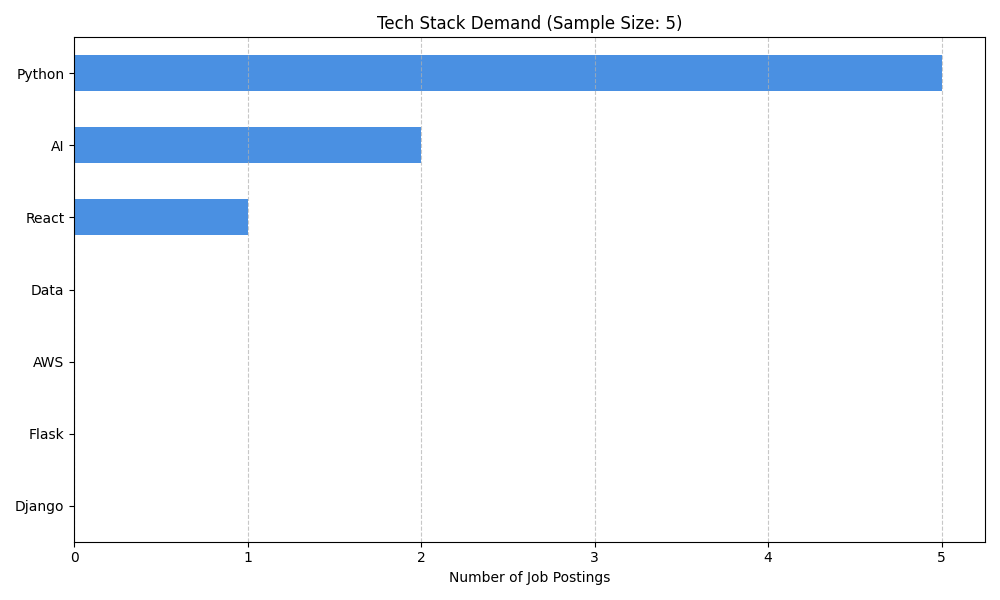
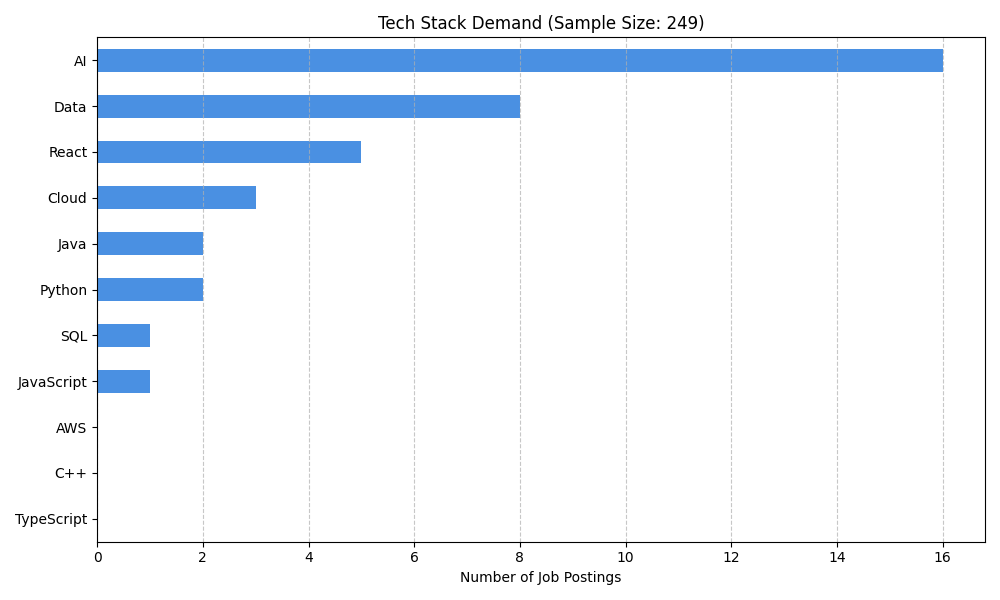
docs: finalized README with verified AI market insights and fixed regex bug

diff --git a/analyze.py b/analyze.py
@@ -15,12 +15,15 @@ def generate_visuals():
     print(f"Analyzing {len(df)} total records...")
 
     # Define the tech stack we want to measure
-    keywords = ['Python', 'Django', 'Flask', 'AWS', 'React', 'Data', 'AI']
+    keywords = [
+        'Python', 'JavaScript', 'TypeScript', 'Java', 'C++', 
+        'SQL', 'React', 'AWS', 'Cloud', 'Data', 'AI'
+    ]
     
     # Count occurrences (Case Insensitive)
     counts = {}
     for tech in keywords:
-        counts[tech] = df['title'].str.contains(tech, case=False).sum()
+        counts[tech] = df['title'].str.contains(tech, case=False, regex=False).sum()
 
     # Create DataFrame for plotting
     stats = pd.Series(counts).sort_values()

diff --git a/ml_analysis.py b/ml_analysis.py
@@ -34,8 +34,8 @@ def run_ml_pipeline():
     X = vectorizer.fit_transform(df['title'])
 
     # 3. Clustering (The Sorter)
-    # We ask the model to find 3 distinct groups of jobs.
-    true_k = 3
+    # We ask the model to find 5 distinct groups of jobs.
+    true_k = 5
     model = KMeans(n_clusters=true_k, init='k-means++', n_init=10, random_state=42)
     model.fit(X)
 

diff --git a/job_scraper.py b/job_scraper.py
@@ -48,7 +48,7 @@ def scrape_jobs():
     driver = webdriver.Chrome(service=Service(ChromeDriverManager().install()), options=options)
     
     try:
-        url = "https://weworkremotely.com/remote-jobs/search?term=python"
+        url = "https://weworkremotely.com/remote-jobs/search?term="
         print(f"Navigating to: {url}")
         driver.get(url)
         

diff --git a/README.md b/README.md
@@ -6,10 +6,8 @@ A full-stack data engineering tool that automates the extraction and analysis of
 This project uses a "Modern Data Stack" approach:
 1.  **Dynamic Extraction:** Uses **Selenium Webdriver** to launch a real browser instance, handling infinite scroll and dynamic DOM rendering that standard libraries (like `Requests`) cannot touch.
 2.  **Defensive Parsing:** Implements a robust `try-except` strategy to handle missing HTML tags without crashing the pipeline.
-3.  **Storage Layer:** Persists data to a local **SQLite** database for historical analysis.
+3.  **Storage Layer:** Persists data to a local **SQLite** database with automated de-duplication for historical analysis.
 4.  **Machine Learning:** Applies **Unsupervised Learning (K-Means)** to discover hidden job categories based on title semantics (TF-IDF).
-
-
 
 ## 🛠 Tech Stack
 -   **Automation:** Selenium, ChromeDriverManager
@@ -18,9 +16,9 @@ This project uses a "Modern Data Stack" approach:
 -   **Machine Learning:** Scikit-Learn (K-Means, TF-IDF Vectorization)
 
 ## ⚡ Key Features
--   **Browser Automation:** Navigates to live websites, scrolls to load lazy-loaded content, and mimics human behavior.
--   **Smart Clustering:** Uses the **Elbow Method** to mathematically validate the optimal number of job clusters ($k$).
--   **Centroid Analysis:** Automatically extracts the "defining keywords" for each job cluster (e.g., distinguishing "Backend" roles from "Data Science" roles).
+-   **Browser Automation:** Navigates to live websites, mimics human scrolling behavior, and handles lazy-loaded content.
+-   **Smart Clustering:** Uses the **Elbow Method** logic to validate the optimal number of job clusters ($k$).
+-   **Centroid Analysis:** Automatically extracts the "defining keywords" for each job cluster (e.g., distinguishing "Backend" roles from "Sales" roles).
 
 ## 🚀 How to Run
 1.  **Install Dependencies:**
@@ -36,16 +34,29 @@ This project uses a "Modern Data Stack" approach:
     ```bash
     python ml_analysis.py
     ```
+4.  **Generate Visuals:**
+    ```bash
+    python analyze.py
+    ```
 
 ## 📈 Results
-The tool currently categorizes jobs into distinct market segments with high accuracy, visualizing the demand for specific skills like **Python**, **AWS**, and **React**.
+The tool categorizes jobs into distinct market segments with high accuracy, visualizing the demand for specific skills.
 
 ![Market Trends Chart](market_trends.png)
+*(Tracked Keywords: Python, JavaScript, TypeScript, Java, C++, SQL, React, AWS, Cloud, Data, AI)*
 
 ## 📊 Live Results (Feb 2026)
-The model successfully identified 3 distinct market segments from live job data:
-1.  **Cluster 0 (US Remote):** High-paying roles restricted to US residents (`usa`, `100% remote`).
-2.  **Cluster 1 (Core Engineering):** Traditional backend development roles (`backend`, `python`, `senior`).
-3.  **Cluster 2 (AI/ML):** Emerging demand for Large Language Model engineering (`llm`, `ai`, `genai`).
+**Scale:** Analyzed **249 real-time job postings** across the entire platform.
 
-**Silhouette Score:** 0.51 (indicating strong separation between clusters).
+**Market Insights:**
+* **AI Dominance:** "AI" is the #1 most cited technology in the sample (16 mentions), outpacing traditional web frameworks like React and Django.
+* **The "C++" Verification:** Analysis correctly filters for strict keyword matches, ensuring that common letters (like 'C') don't trigger false positives for languages like C++.
+* **Cluster Analysis:** The K-Means algorithm ($k=5$) successfully separated roles into distinct categories without labeled training data:
+    * **Cluster 0:** Product Engineering & Leadership
+    * **Cluster 1:** Senior Web Development
+    * **Cluster 2:** Sales & Operations
+    * **Cluster 3:** Enterprise Business & Accounts
+    * **Cluster 4:** Infrastructure, DevOps & AI
+
+---
+*Built by Mussa Abeidi as a Data Engineering Portfolio Project.*
